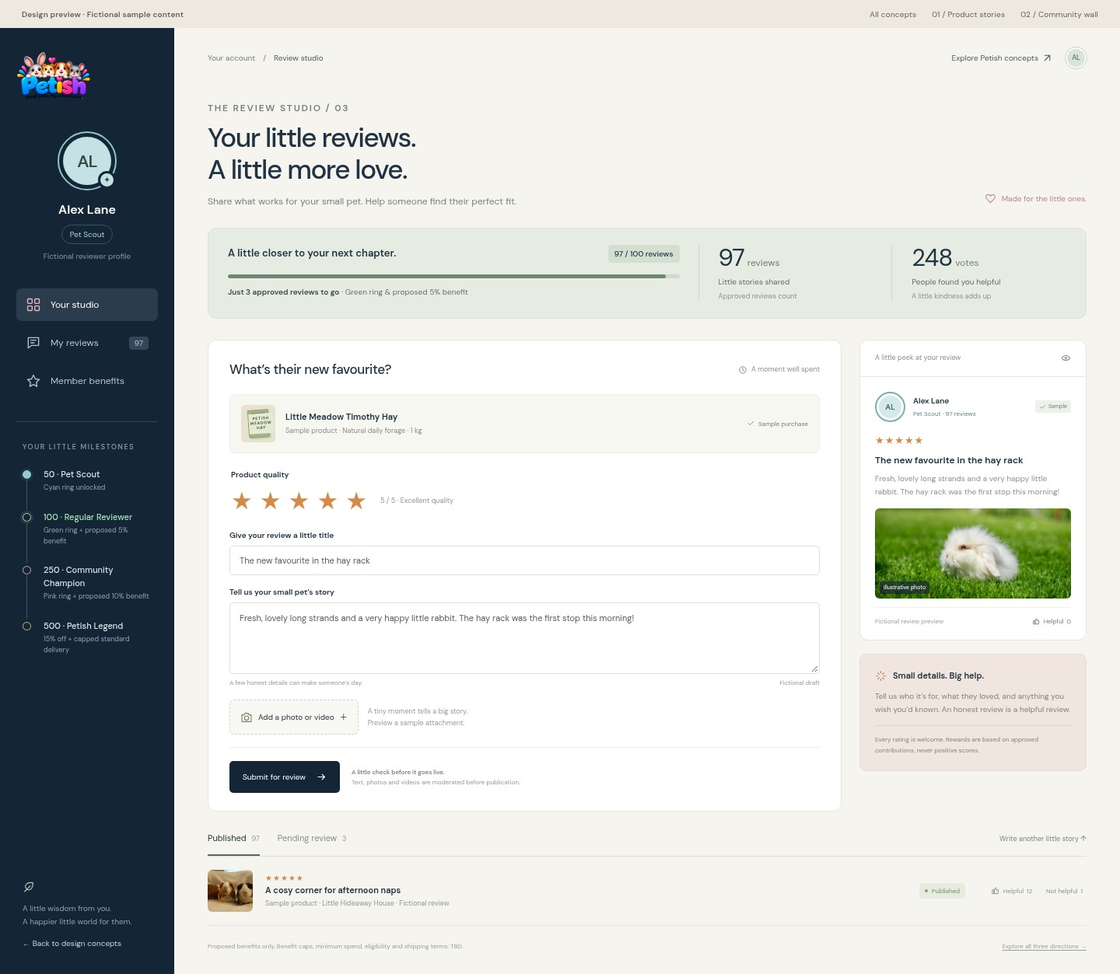
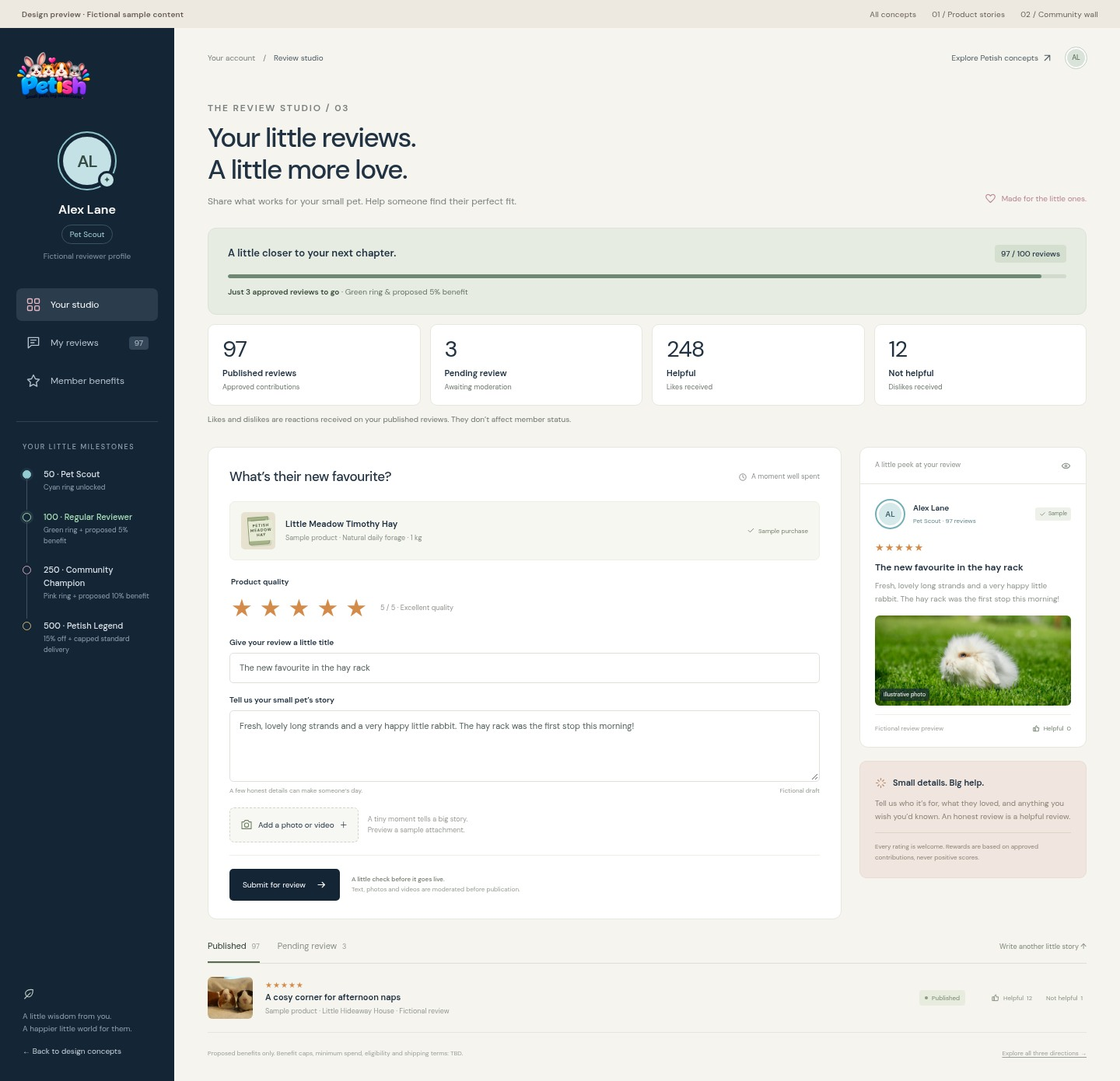
Show review and reaction totals in reviewer dashboard preview

diff --git a/docs/review-concepts/03-reviewer-studio.html b/docs/review-concepts/03-reviewer-studio.html
@@ -11,11 +11,11 @@
     :root{--navy:#142536;--navy-soft:#21394c;--ink:#213243;--muted:#7a807f;--paper:#f5f4ef;--white:#fff;--line:#e7e7de;--pink:#ecb5c2;--pink-soft:#f8e5e9;--orange:#d8803d;--mint:#dce9df;--font:'DM Sans',sans-serif}
     *{box-sizing:border-box}html{scroll-behavior:smooth}body{margin:0;background:var(--paper);color:var(--ink);font-family:var(--font);font-size:14px;line-height:1.5}button,input,textarea{font:inherit}a{color:inherit;text-decoration:none}button,a,input,textarea{ -webkit-tap-highlight-color:transparent}button{cursor:pointer}button:focus-visible,a:focus-visible,input:focus-visible,textarea:focus-visible{outline:3px solid #b55c79;outline-offset:4px}button{color:inherit}svg{width:20px;height:20px;fill:none;stroke:currentColor;stroke-width:1.65;stroke-linecap:round;stroke-linejoin:round;flex:none}h1,h2,h3,p{margin:0}button{border:0}img{max-width:100%;display:block}[hidden]{display:none!important}.preview-bar{min-height:36px;background:#ede9e1;display:flex;align-items:center;justify-content:space-between;padding:8px 28px;color:#665e55;font-size:10px;letter-spacing:.02em;gap:16px}.preview-bar nav{display:flex;gap:20px}.preview-bar a:hover{text-decoration:underline}.preview-bar strong{font-weight:600}.app{display:grid;grid-template-columns:224px minmax(0,1fr);min-height:calc(100vh - 36px)}
     .sidebar{background:var(--navy);color:#d5dce1;display:flex;flex-direction:column;padding:30px 21px;position:relative}.brand{display:flex;align-items:center;gap:10px;color:white;font-size:35px;font-weight:700;letter-spacing:-2px;line-height:1}.brand img{width:96px;height:64px;object-fit:contain;border-radius:6px}.side-label{margin-top:8px;font-size:9px;text-transform:uppercase;letter-spacing:2.5px;color:#8e9ba5}.member{margin-top:39px;text-align:center}.avatar{width:76px;height:76px;padding:5px;margin:0 auto;border:2px solid #8ec4ca;border-radius:50%;position:relative}.avatar-inner{background:#c4e2e5;width:100%;height:100%;border-radius:50%;display:flex;align-items:center;justify-content:center;font-size:22px;color:#354b43;font-weight:600;letter-spacing:-1px}.avatar-badge{position:absolute;right:-1px;bottom:0;width:23px;height:23px;border-radius:50%;background:#c4e2e5;border:3px solid var(--navy);font-size:11px;color:#345146;display:grid;place-items:center}.member h2{font-size:16px;color:#fff;margin-top:13px;font-weight:600}.member .title{display:inline-block;color:#a4d3d8;font-size:10px;border:1px solid #39545d;border-radius:30px;padding:4px 10px;margin-top:7px}.member p{font-size:10px;color:#8497a5;margin-top:8px}.side-nav{display:grid;gap:7px;margin-top:34px}.side-nav a{display:flex;align-items:center;gap:12px;padding:11px 12px;border-radius:7px;font-size:12px;color:#b5c1cb}.side-nav .active{background:#2b3c4d;color:#fff}.side-nav .active svg{color:var(--pink)}.side-nav a:hover{background:#2b3c4d}.nav-count{margin-left:auto;font-size:10px;color:#b5c1cb;background:#344759;padding:1px 7px;border-radius:4px}.milestones{border-top:1px solid #334352;margin-top:31px;padding:26px 8px 0}.milestones h3{font-size:9px;letter-spacing:1.6px;color:#91a1af;font-weight:500;text-transform:uppercase}.milestone-list{list-style:none;margin:19px 0 0;padding:0}.milestone-list li{position:relative;display:grid;grid-template-columns:15px 1fr;column-gap:12px;padding-bottom:22px}.milestone-list li:not(:last-child):before{content:'';position:absolute;left:5px;top:13px;bottom:1px;width:1px;background:#41505e}.milestone-dot{width:11px;height:11px;border:1px solid #6b7b87;border-radius:50%;margin-top:3px}.milestone-list .done .milestone-dot{border-color:#92cbd2;background:#92cbd2;box-shadow:0 0 0 3px #92cbd215}.milestone-list .next .milestone-dot{border-color:#a8dfb8;box-shadow:0 0 0 3px #a8dfb81c}.milestone-list strong{display:block;font-size:11px;color:#dae1e6;font-weight:500}.milestone-list span.reward{display:block;color:#8fa1af;font-size:9px;margin-top:3px}.milestone-list .next strong{color:#a8dfb8}.milestone-list .next .milestone-dot{border-color:#a8dfb8}.milestone-list li:nth-child(3) .milestone-dot{border-color:#dda8bf}.milestone-list li:nth-child(4) .milestone-dot{border-color:#d5bb78}.sidebar-footer{font-size:10px;line-height:1.65;color:#8fa1af;margin-top:auto;padding:32px 8px 0}.sidebar-footer svg{width:16px;height:16px;color:#becdc2;margin-bottom:7px}.sidebar-footer a{display:block;color:#c7d2d9;margin-top:12px;font-size:10px}
-    .main{padding:25px 43px 30px;min-width:0;max-width:1450px;width:100%;margin:auto}.utility{display:flex;align-items:center;justify-content:space-between;font-size:10px;color:var(--muted);margin-bottom:32px}.breadcrumbs{display:flex;gap:10px;align-items:center}.breadcrumbs span:last-child{color:#4a5962}.utility-right{display:flex;align-items:center;gap:17px}.utility-right a{display:flex;align-items:center;gap:5px;color:#4d5b63}.utility-right svg{width:13px;height:13px}.tiny-avatar{width:27px;height:27px;background:#d9e3d9;border-radius:50%;color:#50634f;display:grid;place-items:center;font-size:9px;border:2px solid white;outline:1px solid #c2d1c3}.heading{display:flex;align-items:flex-end;justify-content:space-between;margin-bottom:25px;gap:25px}.eyebrow{font-size:9px;font-weight:600;letter-spacing:1.8px;text-transform:uppercase;color:#88908c;margin-bottom:9px}.heading h1{font-size:35px;line-height:1.18;font-weight:500;letter-spacing:-1.5px}.heading p{margin-top:10px;color:var(--muted);font-size:12px}.heading-stamp{color:#b8838f;display:flex;align-items:center;gap:7px;font-size:10px;flex:none;padding-bottom:5px}.heading-stamp svg{width:15px;height:15px}.overview{display:grid;grid-template-columns:minmax(0,1.55fr) repeat(2,minmax(0,.6fr));background:#e7ece3;border:1px solid #dce2d8;border-radius:11px;padding:21px 25px;gap:24px;margin-bottom:27px}.progress-top{display:flex;justify-content:space-between;gap:14px;align-items:center}.progress-top h2{font-size:13px;font-weight:600}.progress-top strong{font-size:10px;font-weight:500;background:#d4dfcf;padding:4px 8px;border-radius:4px}.progress-track{height:5px;background:#d1dacc;border-radius:5px;overflow:hidden;margin:15px 0 10px}.progress-track div{width:97%;height:100%;background:#6e8874;border-radius:5px}.progress-copy{font-size:10px;color:#667364}.progress-copy strong{color:#374c39;font-weight:600}.stat{border-left:1px solid #cfd8cc;padding-left:25px;display:flex;flex-direction:column;justify-content:center}.stat-number{font-size:31px;letter-spacing:-1px;line-height:1.1}.stat-number small{font-size:12px;letter-spacing:0;margin-left:4px;color:#71816f}.stat-label{font-size:10px;color:#62705f;margin-top:6px}.stat-detail{font-size:9px;color:#8a9586;margin-top:5px}.work-grid{display:grid;grid-template-columns:minmax(0,1fr) 292px;gap:23px;align-items:start}.card{background:var(--white);border:1px solid var(--line);border-radius:11px}.composer{padding:25px 27px 23px}.section-top{display:flex;justify-content:space-between;align-items:center;gap:15px;margin-bottom:18px}.section-top h2{font-size:17px;font-weight:500;letter-spacing:-.35px}.section-top span{font-size:9px;color:#8b918d;display:flex;align-items:center;gap:5px}.section-top span svg{width:12px;height:12px}.product{display:flex;align-items:center;gap:13px;padding:13px 14px;background:#f7f7f2;border:1px solid #eeeeE6;border-radius:7px}.product-illustration{width:44px;height:48px;display:grid;place-items:center;background:#e7e2cf;border-radius:5px;flex:none;position:relative;overflow:hidden}.hay{width:27px;height:36px;background:#a6b38a;border:1px solid #8a9e73;border-radius:1px 1px 3px 3px;transform:rotate(-4deg);display:grid;place-items:center;color:#46583d;font-size:5px;line-height:1.2;text-align:center;box-shadow:2px 2px 0 #d0d1bb}.hay:before{content:'';position:absolute;top:3px;width:19px;height:1px;background:#7d916a}.hay b{padding:4px 2px;background:#e6ead4;font-size:5px;letter-spacing:.7px}.product h3{font-size:11px;font-weight:600}.product p{font-size:9px;color:#899087;margin-top:3px}.purchased{margin-left:auto;font-size:8px;color:#75846d;display:flex;align-items:center;gap:4px}.purchased svg{width:11px;height:11px}.rating{border:0;padding:0;margin:20px 0 18px;min-width:0}.rating legend{font-size:10px;font-weight:600;margin-bottom:8px}.stars-row{display:flex;align-items:center;gap:5px}.star{font-size:31px;line-height:1.2;padding:0 2px;background:none;color:#d5d7ce}.star[aria-pressed=true],.star.is-selected{color:#d48b4a}.stars-row output{font-size:9px;color:#92958e;margin-left:10px}.field{display:block;font-size:10px;font-weight:600;margin-bottom:14px}.field input,.field textarea{display:block;width:100%;border:1px solid #dfe2d9;border-radius:5px;background:#fff;padding:10px 12px;font-size:11px;font-weight:400;color:#52605c;margin-top:6px}.field textarea{resize:vertical;min-height:92px;line-height:1.7}.field input::placeholder,.field textarea::placeholder{color:#a1a69e}.textarea-foot{display:flex;justify-content:space-between;font-size:8px;color:#92998f;margin-top:5px;font-weight:400}.upload-line{display:flex;align-items:center;gap:12px;margin:16px 0}.upload{display:flex;align-items:center;justify-content:center;gap:7px;background:#f7f8f4;border:1px dashed #cfd7c7;border-radius:6px;min-height:45px;padding:11px 13px;font-size:10px;flex:none}.upload svg{width:16px;height:16px;color:#718264}.upload-description{font-size:9px;line-height:1.6;color:#999d96;max-width:190px}.mock-upload{display:flex;gap:8px;margin-bottom:12px}.mock-upload figure{margin:0;position:relative;width:62px;height:52px}.mock-upload img{width:100%;height:100%;object-fit:cover;border-radius:5px}.mock-upload figcaption{position:absolute;bottom:2px;left:3px;color:white;background:#142536cc;font-size:6px;padding:1px 3px;border-radius:2px}.submit-row{display:flex;align-items:center;gap:15px;padding-top:17px;border-top:1px solid #eeefe7}.submit{display:flex;align-items:center;justify-content:center;gap:14px;background:var(--navy);color:white;border-radius:5px;padding:13px 17px;font-size:10px;white-space:nowrap}.submit svg{width:13px;height:13px}.moderation{font-size:8px;line-height:1.65;color:#949b92;max-width:230px}.moderation strong{color:#6b7767;font-weight:500}.confirmation{margin-top:12px;border-radius:6px;padding:11px;background:#e7efe5;color:#38523e;font-size:11px}.right-rail{display:grid;gap:17px}.member-preview{overflow:hidden}.preview-heading{font-size:9px;color:#8a928a;display:flex;align-items:center;justify-content:space-between;padding:16px 19px;border-bottom:1px solid var(--line)}.preview-heading svg{width:13px;height:13px}.member-profile{display:flex;gap:10px;align-items:center;padding:19px 19px 14px}.mini-ring{height:39px;width:39px;border-radius:50%;border:2px solid #74afb8;padding:3px;flex:none}.mini-ring div{width:100%;height:100%;display:grid;place-items:center;border-radius:50%;background:#d5e9eb;font-size:10px;font-weight:600;color:#41656d}.member-profile h3{font-size:10px;font-weight:600}.member-profile p{font-size:8px;color:#63878c;margin-top:3px}.verified{font-size:7px;display:inline-flex;align-items:center;gap:3px;background:#edf1e9;padding:3px 5px;color:#718269;border-radius:3px;margin-left:auto}.verified svg{width:9px;height:9px}.review-preview{padding:0 19px 18px}.small-stars{color:#d48b4a;font-size:13px;letter-spacing:1px}.review-preview h3{font-size:12px;margin-top:7px;font-weight:600}.review-preview p{font-size:10px;line-height:1.7;color:#8c948b;margin-top:6px}.sample-image{position:relative;height:116px;margin:13px 0 11px;overflow:hidden;border-radius:6px;background:#dae5cc}.sample-image img{width:100%;height:100%;object-fit:cover;object-position:50% 48%}.sample-image span{position:absolute;bottom:6px;left:6px;color:white;background:#142536a8;font-size:7px;border-radius:3px;padding:3px 5px}.preview-foot{display:flex;align-items:center;justify-content:space-between;border-top:1px solid #eef0e9;padding-top:11px;font-size:8px;color:#9a9f97}.preview-foot button{font-size:8px;background:none;padding:0;color:#71816d;display:flex;align-items:center;gap:4px}.preview-foot svg{width:11px;height:11px}.tip{background:#f0e6df;border:1px solid #e8dcd3;border-radius:9px;padding:19px}.tip-heading{display:flex;gap:8px;align-items:center;font-size:11px;font-weight:600}.tip-heading svg{width:15px;height:15px;color:#b78d70}.tip p{font-size:10px;line-height:1.75;color:#8d8175;margin-top:9px}.tip-note{margin-top:11px!important;padding-top:10px;border-top:1px solid #dfd2c7;font-size:8px!important}.reviews{margin-top:26px}.review-tabs{display:flex;justify-content:space-between;gap:10px;border-bottom:1px solid #dedfd6}.tab-set{display:flex;gap:23px}.tab-set button{background:none;padding:0 0 12px;font-size:11px;color:#8a9186;border-bottom:2px solid transparent}.tab-set button[aria-selected=true]{color:#273a30;border-color:#556c51}.tab-set button span{font-size:9px;margin-left:4px;color:#9ba294}.review-tabs>a{font-size:9px;color:#7c8777;padding-top:3px}.review-item{display:flex;gap:16px;align-items:center;padding:17px 0;border-bottom:1px solid #e5e6de}.review-item img{width:58px;height:54px;object-fit:cover;border-radius:6px}.review-item-body{min-width:0;flex:1}.review-item h3{font-size:11px;font-weight:600}.review-item p{font-size:9px;color:#93998f;margin-top:3px}.review-item .small-stars{font-size:10px;letter-spacing:1px}.published-badge{display:flex;align-items:center;gap:5px;font-size:8px;color:#75886d;background:#e7ecdf;padding:4px 7px;border-radius:4px;margin-right:12px}.published-badge:before{content:'';width:4px;height:4px;background:#8b9b7f;border-radius:50%}.review-votes{display:flex;gap:8px;align-items:center;font-size:8px;color:#899483}.review-votes button{background:transparent;color:inherit;padding:5px;display:flex;align-items:center;gap:4px;font-size:8px}.review-votes svg{width:12px;height:12px}.empty-state{font-size:11px;color:#7e8b77;background:#ecf0e7;padding:19px;border-radius:7px;margin-top:16px}.footer{display:flex;justify-content:space-between;gap:15px;font-size:8px;color:#9a9f95;padding-top:20px}.footer a{text-decoration:underline;text-underline-offset:2px}
-    @media(min-width:1600px){.main{padding-top:35px}.heading{margin-bottom:32px}.heading h1{font-size:42px}.overview{padding:26px}.composer{padding:30px}.field textarea{min-height:110px}}
-    @media(max-width:1150px){.app{grid-template-columns:190px minmax(0,1fr)}.sidebar{padding:27px 16px}.main{padding:25px}.work-grid{grid-template-columns:minmax(0,1fr) 248px;gap:16px}.heading h1{font-size:29px}.heading-stamp{display:none}.composer{padding:21px}.purchased{display:none}.upload-line{align-items:flex-start}.upload{padding:10px;font-size:9px}.upload-description{font-size:8px}.submit-row{gap:10px}.submit{padding:12px}.overview{padding:18px;gap:18px}.stat{padding-left:18px}.progress-top strong{white-space:nowrap}.member-profile{padding:17px 14px 12px}.verified{display:none}.review-preview{padding:0 14px 17px}}
-    @media(max-width:900px){.app{grid-template-columns:170px minmax(0,1fr)}.sidebar{padding:25px 13px}.brand{font-size:30px}.brand img{width:90px;height:60px}.side-nav a{padding:10px 8px;font-size:11px}.main{padding:23px}.work-grid{grid-template-columns:minmax(0,1fr)}.right-rail{grid-template-columns:1fr 1fr;align-items:start}.member-preview{grid-column:1}.tip{grid-column:2}.overview{grid-template-columns:minmax(0,1.5fr) minmax(0,.6fr)}.overview .stat:last-child{display:none}.member{margin-top:30px}.heading h1{font-size:28px}.heading p{font-size:11px}.utility{margin-bottom:26px}.preview-bar{padding:8px 16px}.preview-bar nav{gap:12px}.review-votes{flex-wrap:wrap;gap:2px;max-width:90px}.published-badge{margin-right:0}.footer{flex-wrap:wrap}.sample-image{height:130px}}
-    @media(max-width:640px){.preview-bar{padding:9px 15px;display:block;font-size:9px;text-align:center}.preview-bar nav{justify-content:center;gap:15px;margin-top:5px;font-size:8px}.app{display:block}.sidebar{padding:18px 20px;display:grid;grid-template-columns:1fr auto;align-items:center;gap:0 10px}.brand{font-size:30px;gap:7px}.brand img{width:72px;height:48px}.side-label{font-size:7px;margin-top:6px;letter-spacing:1.8px}.member{margin:0;display:grid;grid-template-columns:36px auto;grid-template-rows:auto auto;column-gap:9px;text-align:left;grid-column:2;grid-row:1/3}.avatar{grid-row:1/3;width:36px;height:36px;border-width:1px;padding:3px}.avatar-inner{font-size:10px;letter-spacing:0}.avatar-badge{display:none}.member h2{font-size:10px;margin:0;align-self:end}.member .title{font-size:7px;border:0;padding:0;margin-top:2px;line-height:1.5}.member p{display:none}.side-nav{display:flex;grid-column:1/-1;margin-top:17px;gap:7px;padding-top:13px;border-top:1px solid #314151;justify-content:space-between}.side-nav a{font-size:9px;padding:7px 9px;gap:6px;white-space:nowrap}.side-nav svg{width:14px;height:14px}.nav-count{display:none}.milestones,.sidebar-footer{display:none}.milestones:target{display:block;grid-column:1/-1;padding:20px 8px 0;margin-top:20px}.main{padding:24px 20px}.utility{display:none}.heading{margin-bottom:23px}.eyebrow{font-size:8px;margin-bottom:10px}.heading h1{font-size:30px;letter-spacing:-1.1px;line-height:1.2}.heading p{font-size:10px;line-height:1.7;max-width:280px;margin-top:12px}.overview{padding:17px;display:block;margin-bottom:21px}.progress-top{align-items:flex-start}.progress-top h2{font-size:11px}.progress-top strong{font-size:8px;padding:3px 6px}.progress-track{margin:13px 0 9px}.progress-copy{font-size:9px}.overview .stat{display:none}.work-grid{gap:19px}.composer{padding:19px 17px}.section-top h2{font-size:16px}.section-top span{font-size:8px}.section-top span svg{display:none}.product{gap:11px;padding:11px}.product h3{font-size:10px}.product p{font-size:8px}.product-illustration{width:37px;height:43px}.rating{margin-top:19px}.stars-row{gap:7px}.star{font-size:32px}.stars-row output{font-size:8px;margin-left:7px}.field{font-size:10px}.field input,.field textarea{font-size:11px;padding:10px}.field textarea{min-height:111px}.textarea-foot{font-size:7px;gap:6px}.upload-line{display:block}.upload{width:100%;font-size:10px;padding:12px}.upload-description{font-size:8px;max-width:none;margin-top:7px;text-align:center}.submit-row{display:block;padding-top:16px}.submit{width:100%;font-size:11px;padding:13px;justify-content:space-between}.moderation{font-size:8px;max-width:none;margin-top:10px;text-align:center}.right-rail{display:block}.member-preview{margin-bottom:16px}.preview-heading{padding:15px 18px}.member-profile{padding:17px 18px 12px}.verified{display:flex}.review-preview{padding:0 18px 18px}.sample-image{height:150px}.tip{padding:17px}.tip p{font-size:10px}.reviews{margin-top:23px}.review-tabs>a{display:none}.tab-set{gap:21px}.tab-set button{font-size:10px}.review-item{gap:10px;flex-wrap:wrap;position:relative;padding-bottom:35px}.review-item img{width:48px;height:52px}.review-item h3{font-size:10px}.review-item p{font-size:8px}.published-badge{position:absolute;bottom:13px;left:58px;font-size:7px;padding:2px 5px}.review-votes{position:absolute;right:0;bottom:9px;max-width:none;gap:5px}.footer{font-size:7px;gap:8px;line-height:1.6}}
+    .main{padding:25px 43px 30px;min-width:0;max-width:1450px;width:100%;margin:auto}.utility{display:flex;align-items:center;justify-content:space-between;font-size:10px;color:var(--muted);margin-bottom:32px}.breadcrumbs{display:flex;gap:10px;align-items:center}.breadcrumbs span:last-child{color:#4a5962}.utility-right{display:flex;align-items:center;gap:17px}.utility-right a{display:flex;align-items:center;gap:5px;color:#4d5b63}.utility-right svg{width:13px;height:13px}.tiny-avatar{width:27px;height:27px;background:#d9e3d9;border-radius:50%;color:#50634f;display:grid;place-items:center;font-size:9px;border:2px solid white;outline:1px solid #c2d1c3}.heading{display:flex;align-items:flex-end;justify-content:space-between;margin-bottom:25px;gap:25px}.eyebrow{font-size:9px;font-weight:600;letter-spacing:1.8px;text-transform:uppercase;color:#88908c;margin-bottom:9px}.heading h1{font-size:35px;line-height:1.18;font-weight:500;letter-spacing:-1.5px}.heading p{margin-top:10px;color:var(--muted);font-size:12px}.heading-stamp{color:#b8838f;display:flex;align-items:center;gap:7px;font-size:10px;flex:none;padding-bottom:5px}.heading-stamp svg{width:15px;height:15px}.overview{margin-bottom:27px}.milestone-progress{background:#e7ece3;border:1px solid #dce2d8;border-radius:11px;padding:21px 25px}.stat-grid{display:grid;grid-template-columns:repeat(4,minmax(0,1fr));gap:12px;margin-top:12px}.reaction-note{font-size:10px;line-height:1.6;color:#6d766e;margin-top:10px}.progress-top{display:flex;justify-content:space-between;gap:14px;align-items:center}.progress-top h2{font-size:13px;font-weight:600}.progress-top strong{font-size:10px;font-weight:500;background:#d4dfcf;padding:4px 8px;border-radius:4px}.progress-track{height:5px;background:#d1dacc;border-radius:5px;overflow:hidden;margin:15px 0 10px}.progress-track div{width:97%;height:100%;background:#6e8874;border-radius:5px}.progress-copy{font-size:10px;color:#667364}.progress-copy strong{color:#374c39;font-weight:600}.stat{min-width:0;background:var(--white);border:1px solid var(--line);border-radius:9px;padding:16px 18px;display:flex;flex-direction:column;justify-content:center}.stat-number{font-size:29px;letter-spacing:-1px;line-height:1.1;font-variant-numeric:tabular-nums}.stat-number small{font-size:12px;letter-spacing:0;margin-left:4px;color:#71816f}.stat-label{font-size:11px;font-weight:600;color:var(--ink);margin-top:7px}.stat-detail{font-size:9px;color:#6d766e;margin-top:3px}.work-grid{display:grid;grid-template-columns:minmax(0,1fr) 292px;gap:23px;align-items:start}.card{background:var(--white);border:1px solid var(--line);border-radius:11px}.composer{padding:25px 27px 23px}.section-top{display:flex;justify-content:space-between;align-items:center;gap:15px;margin-bottom:18px}.section-top h2{font-size:17px;font-weight:500;letter-spacing:-.35px}.section-top span{font-size:9px;color:#8b918d;display:flex;align-items:center;gap:5px}.section-top span svg{width:12px;height:12px}.product{display:flex;align-items:center;gap:13px;padding:13px 14px;background:#f7f7f2;border:1px solid #eeeeE6;border-radius:7px}.product-illustration{width:44px;height:48px;display:grid;place-items:center;background:#e7e2cf;border-radius:5px;flex:none;position:relative;overflow:hidden}.hay{width:27px;height:36px;background:#a6b38a;border:1px solid #8a9e73;border-radius:1px 1px 3px 3px;transform:rotate(-4deg);display:grid;place-items:center;color:#46583d;font-size:5px;line-height:1.2;text-align:center;box-shadow:2px 2px 0 #d0d1bb}.hay:before{content:'';position:absolute;top:3px;width:19px;height:1px;background:#7d916a}.hay b{padding:4px 2px;background:#e6ead4;font-size:5px;letter-spacing:.7px}.product h3{font-size:11px;font-weight:600}.product p{font-size:9px;color:#899087;margin-top:3px}.purchased{margin-left:auto;font-size:8px;color:#75846d;display:flex;align-items:center;gap:4px}.purchased svg{width:11px;height:11px}.rating{border:0;padding:0;margin:20px 0 18px;min-width:0}.rating legend{font-size:10px;font-weight:600;margin-bottom:8px}.stars-row{display:flex;align-items:center;gap:5px}.star{font-size:31px;line-height:1.2;padding:0 2px;background:none;color:#d5d7ce}.star[aria-pressed=true],.star.is-selected{color:#d48b4a}.stars-row output{font-size:9px;color:#92958e;margin-left:10px}.field{display:block;font-size:10px;font-weight:600;margin-bottom:14px}.field input,.field textarea{display:block;width:100%;border:1px solid #dfe2d9;border-radius:5px;background:#fff;padding:10px 12px;font-size:11px;font-weight:400;color:#52605c;margin-top:6px}.field textarea{resize:vertical;min-height:92px;line-height:1.7}.field input::placeholder,.field textarea::placeholder{color:#a1a69e}.textarea-foot{display:flex;justify-content:space-between;font-size:8px;color:#92998f;margin-top:5px;font-weight:400}.upload-line{display:flex;align-items:center;gap:12px;margin:16px 0}.upload{display:flex;align-items:center;justify-content:center;gap:7px;background:#f7f8f4;border:1px dashed #cfd7c7;border-radius:6px;min-height:45px;padding:11px 13px;font-size:10px;flex:none}.upload svg{width:16px;height:16px;color:#718264}.upload-description{font-size:9px;line-height:1.6;color:#999d96;max-width:190px}.mock-upload{display:flex;gap:8px;margin-bottom:12px}.mock-upload figure{margin:0;position:relative;width:62px;height:52px}.mock-upload img{width:100%;height:100%;object-fit:cover;border-radius:5px}.mock-upload figcaption{position:absolute;bottom:2px;left:3px;color:white;background:#142536cc;font-size:6px;padding:1px 3px;border-radius:2px}.submit-row{display:flex;align-items:center;gap:15px;padding-top:17px;border-top:1px solid #eeefe7}.submit{display:flex;align-items:center;justify-content:center;gap:14px;background:var(--navy);color:white;border-radius:5px;padding:13px 17px;font-size:10px;white-space:nowrap}.submit svg{width:13px;height:13px}.moderation{font-size:8px;line-height:1.65;color:#949b92;max-width:230px}.moderation strong{color:#6b7767;font-weight:500}.confirmation{margin-top:12px;border-radius:6px;padding:11px;background:#e7efe5;color:#38523e;font-size:11px}.right-rail{display:grid;gap:17px}.member-preview{overflow:hidden}.preview-heading{font-size:9px;color:#8a928a;display:flex;align-items:center;justify-content:space-between;padding:16px 19px;border-bottom:1px solid var(--line)}.preview-heading svg{width:13px;height:13px}.member-profile{display:flex;gap:10px;align-items:center;padding:19px 19px 14px}.mini-ring{height:39px;width:39px;border-radius:50%;border:2px solid #74afb8;padding:3px;flex:none}.mini-ring div{width:100%;height:100%;display:grid;place-items:center;border-radius:50%;background:#d5e9eb;font-size:10px;font-weight:600;color:#41656d}.member-profile h3{font-size:10px;font-weight:600}.member-profile p{font-size:8px;color:#63878c;margin-top:3px}.verified{font-size:7px;display:inline-flex;align-items:center;gap:3px;background:#edf1e9;padding:3px 5px;color:#718269;border-radius:3px;margin-left:auto}.verified svg{width:9px;height:9px}.review-preview{padding:0 19px 18px}.small-stars{color:#d48b4a;font-size:13px;letter-spacing:1px}.review-preview h3{font-size:12px;margin-top:7px;font-weight:600}.review-preview p{font-size:10px;line-height:1.7;color:#8c948b;margin-top:6px}.sample-image{position:relative;height:116px;margin:13px 0 11px;overflow:hidden;border-radius:6px;background:#dae5cc}.sample-image img{width:100%;height:100%;object-fit:cover;object-position:50% 48%}.sample-image span{position:absolute;bottom:6px;left:6px;color:white;background:#142536a8;font-size:7px;border-radius:3px;padding:3px 5px}.preview-foot{display:flex;align-items:center;justify-content:space-between;border-top:1px solid #eef0e9;padding-top:11px;font-size:8px;color:#9a9f97}.preview-foot button{font-size:8px;background:none;padding:0;color:#71816d;display:flex;align-items:center;gap:4px}.preview-foot svg{width:11px;height:11px}.tip{background:#f0e6df;border:1px solid #e8dcd3;border-radius:9px;padding:19px}.tip-heading{display:flex;gap:8px;align-items:center;font-size:11px;font-weight:600}.tip-heading svg{width:15px;height:15px;color:#b78d70}.tip p{font-size:10px;line-height:1.75;color:#8d8175;margin-top:9px}.tip-note{margin-top:11px!important;padding-top:10px;border-top:1px solid #dfd2c7;font-size:8px!important}.reviews{margin-top:26px}.review-tabs{display:flex;justify-content:space-between;gap:10px;border-bottom:1px solid #dedfd6}.tab-set{display:flex;gap:23px}.tab-set button{background:none;padding:0 0 12px;font-size:11px;color:#8a9186;border-bottom:2px solid transparent}.tab-set button[aria-selected=true]{color:#273a30;border-color:#556c51}.tab-set button span{font-size:9px;margin-left:4px;color:#9ba294}.review-tabs>a{font-size:9px;color:#7c8777;padding-top:3px}.review-item{display:flex;gap:16px;align-items:center;padding:17px 0;border-bottom:1px solid #e5e6de}.review-item img{width:58px;height:54px;object-fit:cover;border-radius:6px}.review-item-body{min-width:0;flex:1}.review-item h3{font-size:11px;font-weight:600}.review-item p{font-size:9px;color:#93998f;margin-top:3px}.review-item .small-stars{font-size:10px;letter-spacing:1px}.published-badge{display:flex;align-items:center;gap:5px;font-size:8px;color:#75886d;background:#e7ecdf;padding:4px 7px;border-radius:4px;margin-right:12px}.published-badge:before{content:'';width:4px;height:4px;background:#8b9b7f;border-radius:50%}.review-votes{display:flex;gap:8px;align-items:center;font-size:8px;color:#899483}.review-votes button{background:transparent;color:inherit;padding:5px;display:flex;align-items:center;gap:4px;font-size:8px}.review-votes svg{width:12px;height:12px}.empty-state{font-size:11px;color:#7e8b77;background:#ecf0e7;padding:19px;border-radius:7px;margin-top:16px}.footer{display:flex;justify-content:space-between;gap:15px;font-size:8px;color:#9a9f95;padding-top:20px}.footer a{text-decoration:underline;text-underline-offset:2px}
+    @media(min-width:1600px){.main{padding-top:35px}.heading{margin-bottom:32px}.heading h1{font-size:42px}.milestone-progress{padding:26px}.composer{padding:30px}.field textarea{min-height:110px}}
+    @media(max-width:1150px){.app{grid-template-columns:190px minmax(0,1fr)}.sidebar{padding:27px 16px}.main{padding:25px}.work-grid{grid-template-columns:minmax(0,1fr) 248px;gap:16px}.heading h1{font-size:29px}.heading-stamp{display:none}.composer{padding:21px}.purchased{display:none}.upload-line{align-items:flex-start}.upload{padding:10px;font-size:9px}.upload-description{font-size:8px}.submit-row{gap:10px}.submit{padding:12px}.milestone-progress{padding:18px}.stat{padding:15px}.progress-top strong{white-space:nowrap}.member-profile{padding:17px 14px 12px}.verified{display:none}.review-preview{padding:0 14px 17px}}
+    @media(max-width:900px){.app{grid-template-columns:170px minmax(0,1fr)}.sidebar{padding:25px 13px}.brand{font-size:30px}.brand img{width:90px;height:60px}.side-nav a{padding:10px 8px;font-size:11px}.main{padding:23px}.work-grid{grid-template-columns:minmax(0,1fr)}.right-rail{grid-template-columns:1fr 1fr;align-items:start}.member-preview{grid-column:1}.tip{grid-column:2}.stat-grid{grid-template-columns:repeat(2,minmax(0,1fr))}.member{margin-top:30px}.heading h1{font-size:28px}.heading p{font-size:11px}.utility{margin-bottom:26px}.preview-bar{padding:8px 16px}.preview-bar nav{gap:12px}.review-votes{flex-wrap:wrap;gap:2px;max-width:90px}.published-badge{margin-right:0}.footer{flex-wrap:wrap}.sample-image{height:130px}}
+    @media(max-width:640px){.preview-bar{padding:9px 15px;display:block;font-size:9px;text-align:center}.preview-bar nav{justify-content:center;gap:15px;margin-top:5px;font-size:8px}.app{display:block}.sidebar{padding:18px 20px;display:grid;grid-template-columns:1fr auto;align-items:center;gap:0 10px}.brand{font-size:30px;gap:7px}.brand img{width:72px;height:48px}.side-label{font-size:7px;margin-top:6px;letter-spacing:1.8px}.member{margin:0;display:grid;grid-template-columns:36px auto;grid-template-rows:auto auto;column-gap:9px;text-align:left;grid-column:2;grid-row:1/3}.avatar{grid-row:1/3;width:36px;height:36px;border-width:1px;padding:3px}.avatar-inner{font-size:10px;letter-spacing:0}.avatar-badge{display:none}.member h2{font-size:10px;margin:0;align-self:end}.member .title{font-size:7px;border:0;padding:0;margin-top:2px;line-height:1.5}.member p{display:none}.side-nav{display:flex;grid-column:1/-1;margin-top:17px;gap:7px;padding-top:13px;border-top:1px solid #314151;justify-content:space-between}.side-nav a{font-size:9px;padding:7px 9px;gap:6px;white-space:nowrap}.side-nav svg{width:14px;height:14px}.nav-count{display:none}.milestones,.sidebar-footer{display:none}.milestones:target{display:block;grid-column:1/-1;padding:20px 8px 0;margin-top:20px}.main{padding:24px 20px}.utility{display:none}.heading{margin-bottom:23px}.eyebrow{font-size:8px;margin-bottom:10px}.heading h1{font-size:30px;letter-spacing:-1.1px;line-height:1.2}.heading p{font-size:10px;line-height:1.7;max-width:280px;margin-top:12px}.overview{margin-bottom:21px}.milestone-progress{padding:17px}.stat-grid{gap:10px;margin-top:10px}.stat{padding:15px}.stat-number{font-size:28px}.stat-label{font-size:11px}.reaction-note{font-size:9px}.progress-top{align-items:flex-start}.progress-top h2{font-size:11px}.progress-top strong{font-size:8px;padding:3px 6px}.progress-track{margin:13px 0 9px}.progress-copy{font-size:9px}.work-grid{gap:19px}.composer{padding:19px 17px}.section-top h2{font-size:16px}.section-top span{font-size:8px}.section-top span svg{display:none}.product{gap:11px;padding:11px}.product h3{font-size:10px}.product p{font-size:8px}.product-illustration{width:37px;height:43px}.rating{margin-top:19px}.stars-row{gap:7px}.star{font-size:32px}.stars-row output{font-size:8px;margin-left:7px}.field{font-size:10px}.field input,.field textarea{font-size:11px;padding:10px}.field textarea{min-height:111px}.textarea-foot{font-size:7px;gap:6px}.upload-line{display:block}.upload{width:100%;font-size:10px;padding:12px}.upload-description{font-size:8px;max-width:none;margin-top:7px;text-align:center}.submit-row{display:block;padding-top:16px}.submit{width:100%;font-size:11px;padding:13px;justify-content:space-between}.moderation{font-size:8px;max-width:none;margin-top:10px;text-align:center}.right-rail{display:block}.member-preview{margin-bottom:16px}.preview-heading{padding:15px 18px}.member-profile{padding:17px 18px 12px}.verified{display:flex}.review-preview{padding:0 18px 18px}.sample-image{height:150px}.tip{padding:17px}.tip p{font-size:10px}.reviews{margin-top:23px}.review-tabs>a{display:none}.tab-set{gap:21px}.tab-set button{font-size:10px}.review-item{gap:10px;flex-wrap:wrap;position:relative;padding-bottom:35px}.review-item img{width:48px;height:52px}.review-item h3{font-size:10px}.review-item p{font-size:8px}.published-badge{position:absolute;bottom:13px;left:58px;font-size:7px;padding:2px 5px}.review-votes{position:absolute;right:0;bottom:9px;max-width:none;gap:5px}.footer{font-size:7px;gap:8px;line-height:1.6}}
     @media(max-width:360px){.main{padding:22px 14px}.sidebar{padding:17px 14px}.side-nav{gap:3px}.side-nav a{padding:7px 6px;font-size:8px;gap:4px}.heading h1{font-size:27px}.composer{padding:18px 14px}.section-top span{font-size:7px}.stars-row{gap:4px}.stars-row output{font-size:7px}.preview-bar nav{gap:12px}.preview-bar{font-size:8px}.member{column-gap:6px}.member .title{font-size:6px}.progress-top strong{font-size:7px}.progress-top h2{font-size:10px}}
   </style>
   <script src="assets/preview.js" defer></script>
@@ -33,7 +33,16 @@
     <main class="main" id="studio">
       <div class="utility"><div class="breadcrumbs"><span>Your account</span><span>/</span><span>Review studio</span></div><div class="utility-right"><a href="index.html">Explore Petish concepts <svg viewBox="0 0 20 20" aria-hidden="true"><path d="M5 15 15 5M5 5h10v10"/></svg></a><span class="tiny-avatar" aria-label="Alex Lane, fictional profile">AL</span></div></div>
       <header class="heading"><div><p class="eyebrow">The review studio / 03</p><h1>Your little reviews.<br>A little more love.</h1><p>Share what works for your small pet. Help someone find their perfect fit.</p></div><div class="heading-stamp"><svg viewBox="0 0 24 24" aria-hidden="true"><path d="M20 5c-3-3-7 0-8 2-1-2-5-5-8-2-4 4 2 10 8 15 6-5 12-11 8-15Z"/></svg>Made for the little ones.</div></header>
-      <section class="overview" aria-label="Your review milestones"><div><div class="progress-top"><h2>A little closer to your next chapter.</h2><strong>97 / 100 reviews</strong></div><div class="progress-track" role="progressbar" aria-valuenow="97" aria-valuemin="0" aria-valuemax="100" aria-label="Approved reviews toward the next milestone"><div></div></div><p class="progress-copy"><strong>Just 3 approved reviews to go</strong> · Green ring &amp; proposed 5% benefit</p></div><div class="stat"><div class="stat-number">97<small>reviews</small></div><div class="stat-label">Little stories shared</div><div class="stat-detail">Approved reviews count</div></div><div class="stat"><div class="stat-number">248<small>votes</small></div><div class="stat-label">People found you helpful</div><div class="stat-detail">A little kindness adds up</div></div></section>
+      <section class="overview" aria-label="Your review activity and milestones">
+        <div class="milestone-progress"><div class="progress-top"><h2>A little closer to your next chapter.</h2><strong>97 / 100 reviews</strong></div><div class="progress-track" role="progressbar" aria-valuenow="97" aria-valuemin="0" aria-valuemax="100" aria-label="Approved reviews toward the next milestone"><div></div></div><p class="progress-copy"><strong>Just 3 approved reviews to go</strong> · Green ring &amp; proposed 5% benefit</p></div>
+        <div class="stat-grid" aria-label="Review and reaction totals">
+          <div class="stat"><div class="stat-number">97</div><div class="stat-label">Published reviews</div><div class="stat-detail">Approved contributions</div></div>
+          <div class="stat"><div class="stat-number">3</div><div class="stat-label">Pending review</div><div class="stat-detail">Awaiting moderation</div></div>
+          <div class="stat"><div class="stat-number">248</div><div class="stat-label">Helpful</div><div class="stat-detail">Likes received</div></div>
+          <div class="stat"><div class="stat-number">12</div><div class="stat-label">Not helpful</div><div class="stat-detail">Dislikes received</div></div>
+        </div>
+        <p class="reaction-note">Likes and dislikes are reactions received on your published reviews. They don’t affect member status.</p>
+      </section>
       <div class="work-grid">
         <section class="card composer" aria-labelledby="composer-heading"><div class="section-top"><h2 id="composer-heading">What’s their new favourite?</h2><span><svg viewBox="0 0 20 20" aria-hidden="true"><circle cx="10" cy="10" r="7"/><path d="M10 6v4l3 2"/></svg>A moment well spent</span></div>
           <div class="product"><div class="product-illustration" aria-hidden="true"><div class="hay"><b>PETISH<br>MEADOW<br>HAY</b></div></div><div><h3>Little Meadow Timothy Hay</h3><p>Sample product · Natural daily forage · 1 kg</p></div><span class="purchased"><svg viewBox="0 0 20 20" aria-hidden="true"><path d="m4 10 4 4 8-8"/></svg>Sample purchase</span></div>

diff --git a/docs/CUSTOMER-REVIEWS-PROPOSAL.md b/docs/CUSTOMER-REVIEWS-PROPOSAL.md
@@ -22,6 +22,11 @@ content and preview-only interactions; no programme features are enabled.
 - The delivery benefit has a minimum spend and a cost cap. Amounts and the
   treatment of charges above the cap are not decided.
 - Other customers can react positively or negatively to a review.
+- Reviews appear below the product description and details. The rating summary
+  near the product title links to the review section.
+- The reviewer dashboard shows review counts and likes/dislikes received.
+- The 100-review Regular Reviewer badge and profile ring are green; the general
+  lavender styling remains unchanged.
 
 ## Suggested customer experience
 
@@ -50,6 +55,24 @@ Public ratings should average approved ratings without giving higher-status
 members extra weight. Offer newest, rating, verified purchase and media filters.
 Keep each review tied to the product/variant actually discussed; record the
 variant even if the counting rule groups variants under their parent product.
+
+## Reviewer dashboard counts
+
+Show published and pending reviews separately, alongside **Helpful (likes)** and
+**Not helpful (dislikes)** totals received on the customer's published reviews.
+Keep all four counts visible on desktop and mobile. Retain reactions received
+on each published review in the customer's review list.
+
+The milestone progress bar shows qualifying approved contributions, separate
+from submission counts. Pending reviews and reaction totals do not advance a
+member's status or change their benefits. These reaction counters represent
+feedback received, not reactions the customer has given to other people.
+
+Recommended counting behaviour: count each review once in its current status;
+edits do not create another review. Count each voter's current valid choice,
+update both totals when they switch or withdraw it, and exclude invalidated
+votes and non-public reviews from the displayed reaction totals. Lifetime
+reward-credit retention is a separate policy still to be settled.
 
 ## Suggested milestone presentation
 

diff --git a/CODEX-HANDOVER.md b/CODEX-HANDOVER.md
@@ -97,8 +97,12 @@ for the current cloud workflow. The Mac setup below is archived history.
   [three interactive layout mockups](https://nkrake6.github.io/petish/review-concepts/)
   are ready for design choice. Green replaces lavender only for the 100-review
   Regular Reviewer badge and profile ring; general lavender styling is retained.
-  The mockups use fictional data; no review,
-  voting, upload or reward features have been enabled on the live store.
+  The owner confirmed product reviews below description/details, linked from
+  the rating summary near the product title. Reviewer studio now previews
+  separate published/pending review counts and Helpful/Not helpful totals
+  received, visible on desktop and mobile. Reactions do not affect status.
+  The mockups use fictional data; no review, voting, upload or reward features
+  have been enabled on the live store.
 
 Passport staging [39537031480-1](https://github.com/nkrake6/petish/tree/automation-status/pet-club-39537031480-1)
 passed on source `3012a27`; the production release above matches its exact 18

diff --git a/docs/review-concepts/README.md b/docs/review-concepts/README.md
@@ -27,6 +27,12 @@ The local DM Sans font and its licence are in `../cart-badge-preview/assets/`.
 Recommended combination: Product stories on product pages and Reviewer studio
 under My Account. Community wall is an alternative discovery experience.
 
+The Reviewer studio shows published and pending review counts separately, plus
+Helpful (likes received) and Not helpful (dislikes received) totals. All four
+are visible on mobile. The fictional example has 97 published reviews, 3
+pending, 248 Helpful and 12 Not helpful reactions. Votes do not affect status;
+the milestone progress bar remains based on qualifying approved reviews.
+
 Local Chromium checks covered 320, 390, 768 and 1440px widths without horizontal
 overflow, all image loads, preview voting/filtering/sorting, dialogs, form
 confirmation, sample attachments and the gallery. All requests stayed on the
